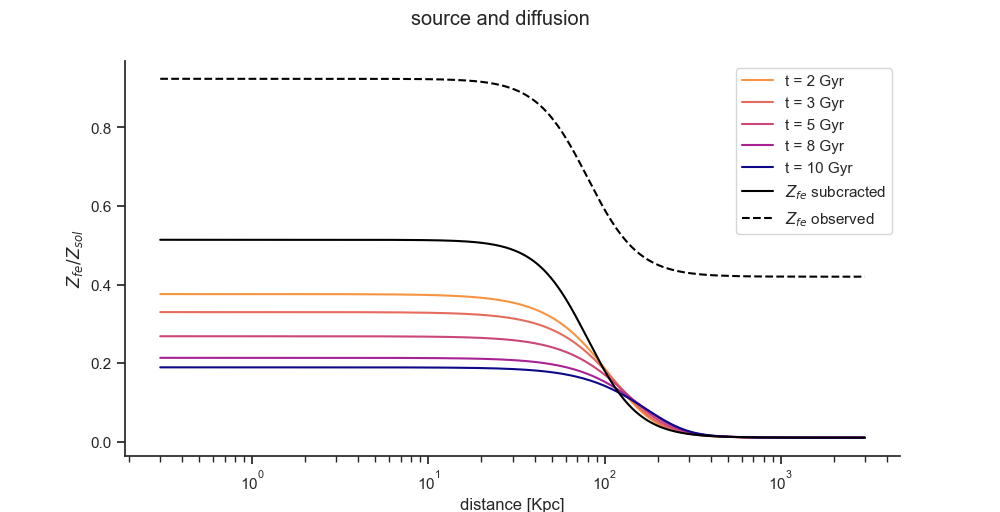
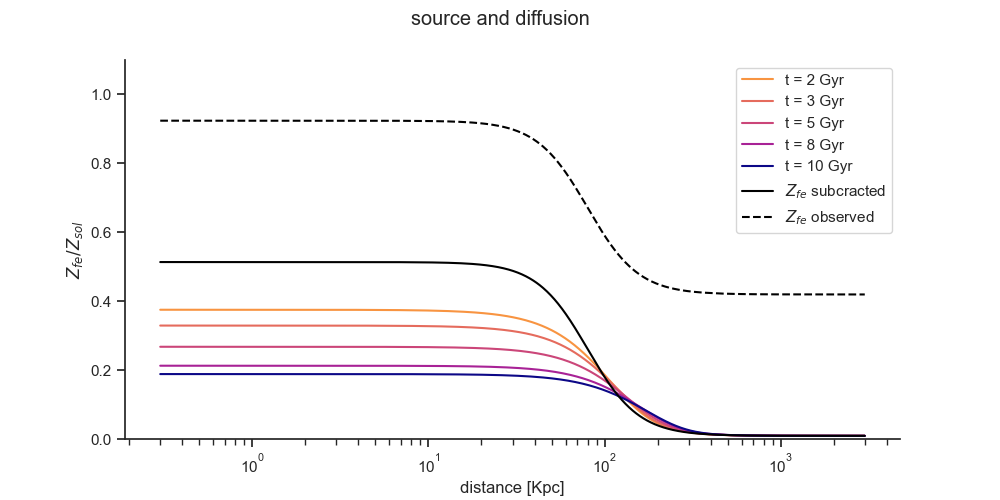
aggiustati grafici

diff --git a/progetto1/diffusione.py b/progetto1/diffusione.py
@@ -4,7 +4,7 @@ import pandas as pd
 import matplotlib.pyplot as plt
 
 #data = pd.read_csv(r'C:\Users\matteo\Desktop\computational\progetto2\sedov010.dat',header=None,sep='\s+') 
-data = pd.read_csv(r'C:\Users\matte\Desktop\computational\progetto1\time.dat',header=None,sep='\s+',
+data = pd.read_csv(r'C:\Users\matteo\Desktop\computational\progetto1\diffusione.dat',header=None,sep='\s+',
  comment='#', engine='python')
 #data =  pd.read_csv(r'C:\Users\matteo\Desktop\computational\progetto2\sedov000.dat',header=None,sep='\s+')
 #data2 = pd.read_csv(r'C:\Users\matteo\Desktop\computational\test1\shock_radius_winds2.dat',header=None,sep='\s+')
@@ -24,6 +24,7 @@ ax.plot(data[0], data[1], label='$Z_{fe}$ subcracted', color = 'black')
 ax.plot(data[0], data[2], label='$Z_{fe}$ observed', linestyle = '--',color = 'black')
 ax.set_xlabel('distance [Kpc]')
 ax.set_ylabel('$Z_{fe} / Z_{sol}$')
+ax.set_ylim(0,1.1)
 plt.legend()
 fig.suptitle('source and diffusion')
 plt.show()

diff --git a/progetto1/density.py b/progetto1/density.py
@@ -34,7 +34,7 @@ plt.plot(data2[0], data2[1],color = colors[3], label='dark matter numerical')
 plt.plot(data2[0], data2[2],color = colors[2], label='dark matter analitical')
 plt.plot(data2[0], data2[3],color = colors[0], label='stars mass profile')
 plt.xlabel('distance [kpc]')
-plt.ylabel('density [cgs]')
+plt.ylabel('$M/M_{sol}$')
 plt.xscale('log')
 plt.yscale('log')
 plt.legend()
